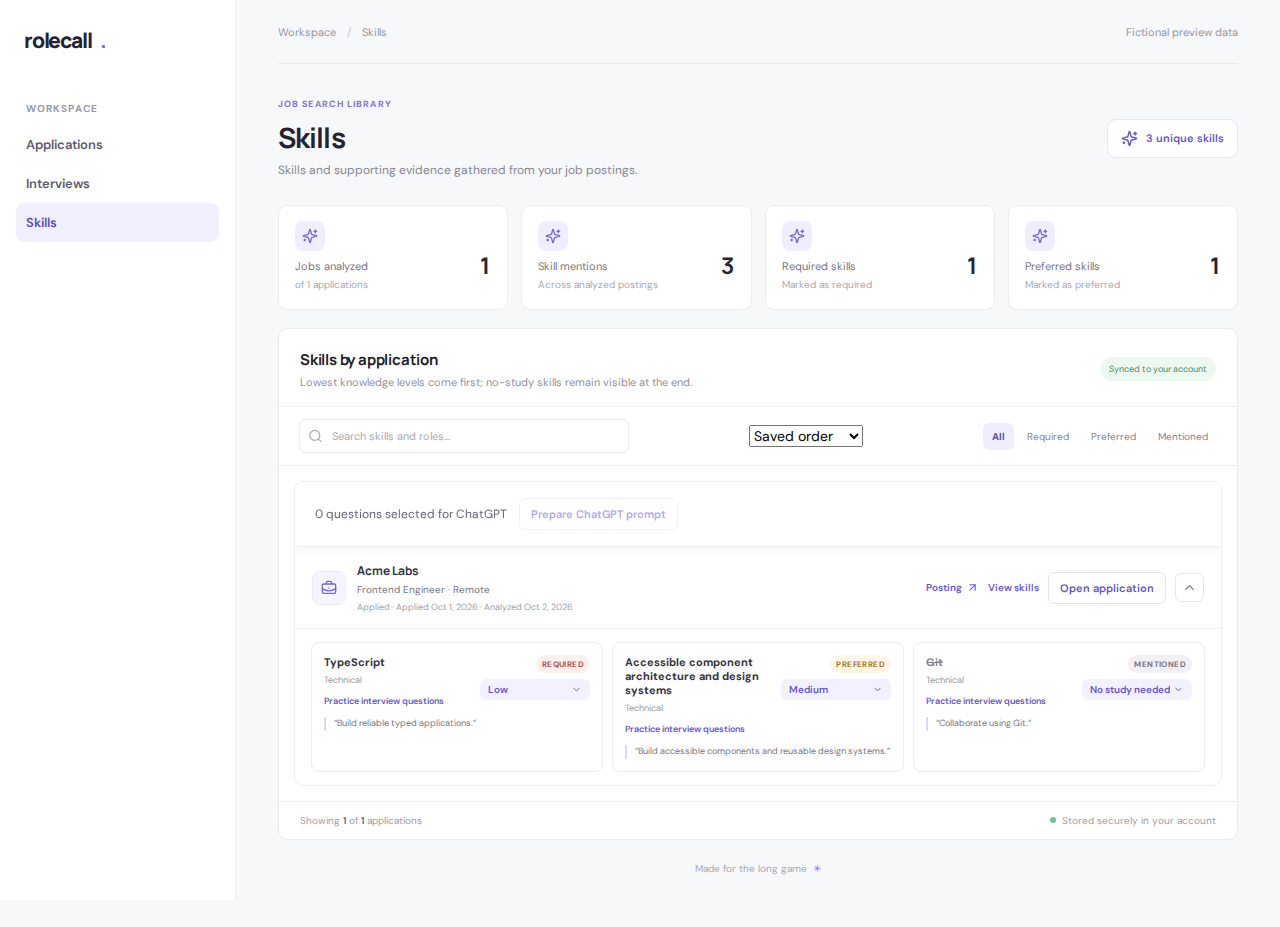
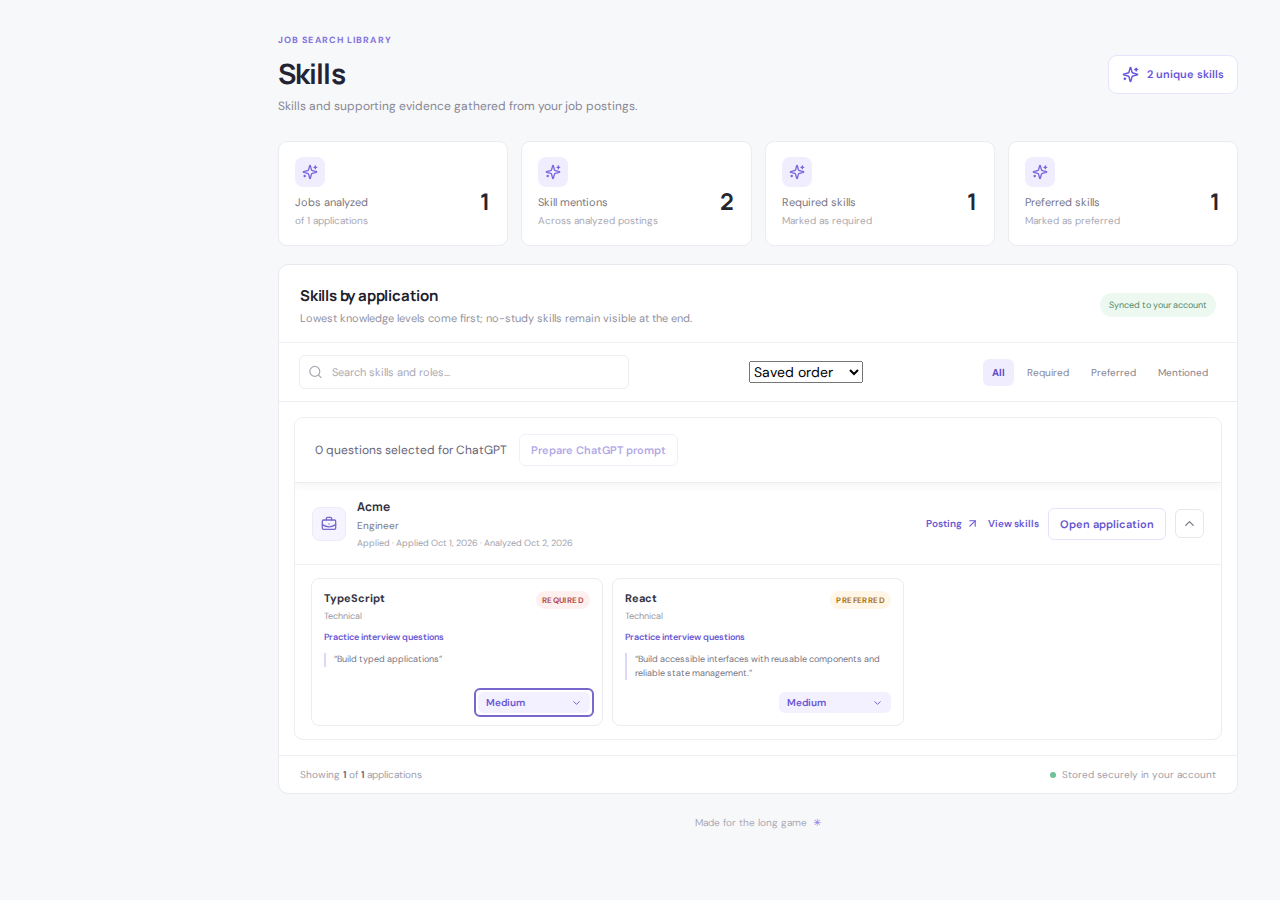
Move knowledge flags to the bottom right (#51)

diff --git a/src/features/skills/pages/SkillsPage.tsx b/src/features/skills/pages/SkillsPage.tsx
@@ -150,7 +150,7 @@ export default function SkillsPage({ applications, loading, now = Date.now(), on
                     const questionsId = `skill-questions-${application.id}-${index}`
                     const questions = skill.interviewQuestions ?? []
                     const needsNoStudy = getSkillPriority(skill) === NO_STUDY_PRIORITY
-                    return <article className={`analyzed-skill${needsNoStudy ? ' analyzed-skill-no-study' : ''}`} key={`${skill.name}-${skill.evidence}`}>
+                    return <article className={`analyzed-skill application-skill-card${needsNoStudy ? ' analyzed-skill-no-study' : ''}`} key={`${skill.name}-${skill.evidence}`}>
                       <div className="application-skill-heading">
                         <button
                           type="button"
@@ -165,23 +165,6 @@ export default function SkillsPage({ applications, loading, now = Date.now(), on
                         </button>
                         <div className="application-skill-flags">
                           <span className={`importance importance-${skill.importance}`}>{skill.importance}</span>
-                          <label className="company-skill-knowledge-level" title="Change the knowledge level for this application skill.">
-                            <span className="sr-only">Knowledge level:</span>
-                            <select
-                              className="company-skill-knowledge-select"
-                              aria-label={`Knowledge level for ${skill.name}`}
-                              value={getComfortRating(skill)}
-                              disabled={savingApplications.has(application.id)}
-                              onChange={(event) => {
-                                if (isComfortRating(event.target.value)) {
-                                  void updateKnowledge(application.id, skill.name, event.target.value)
-                                }
-                              }}
-                            >
-                              {comfortRatings.map((rating) => <option key={rating.value} value={rating.value}>{rating.label}</option>)}
-                            </select>
-                            <ChevronDown size={11} aria-hidden="true" />
-                          </label>
                         </div>
                       </div>
                       <blockquote>“{skill.evidence}”</blockquote>
@@ -191,6 +174,25 @@ export default function SkillsPage({ applications, loading, now = Date.now(), on
                           ? <ol>{questions.map((question, questionIndex) => <li key={`${questionIndex}-${question}`}><PracticeQuestionChoice question={applicationPracticeQuestion(skill, questionIndex)} /></li>)}</ol>
                           : <p>Interview questions are not available for this saved analysis yet. Open the application to generate them.</p>}
                       </div>}
+                      <div className="application-skill-knowledge">
+                        <label className="company-skill-knowledge-level" title="Change the knowledge level for this application skill.">
+                          <span className="sr-only">Knowledge level:</span>
+                          <select
+                            className="company-skill-knowledge-select"
+                            aria-label={`Knowledge level for ${skill.name}`}
+                            value={getComfortRating(skill)}
+                            disabled={savingApplications.has(application.id)}
+                            onChange={(event) => {
+                              if (isComfortRating(event.target.value)) {
+                                void updateKnowledge(application.id, skill.name, event.target.value)
+                              }
+                            }}
+                          >
+                            {comfortRatings.map((rating) => <option key={rating.value} value={rating.value}>{rating.label}</option>)}
+                          </select>
+                          <ChevronDown size={11} aria-hidden="true" />
+                        </label>
+                      </div>
                     </article>
                   })}</div> : <div className="no-skills-found">{application.skills?.length ? `No ${importance.toLowerCase()} skills in this posting.` : 'No specific skills were found in the saved job posting.'}</div>}
                   {application.jobDescription && <details className="saved-job-description"><summary>View fetched job description</summary><pre>{application.jobDescription}</pre></details>}

diff --git a/src/test/components/SkillsPage.knowledge-flags.test.tsx b/src/test/components/SkillsPage.knowledge-flags.test.tsx
@@ -8,13 +8,13 @@ const application: Application = { id: 'one', company: 'Acme', role: 'Engineer',
 const defaults = { loading: false, onOpenApplication: vi.fn(), onOpenCompany: vi.fn(), onOpenApplicationSkills: vi.fn(), applicationFilterId: null, onClearApplicationFilter: vi.fn() }
 
 describe('application knowledge flags', () => {
-  it('places a separately labeled selector beside each practice button for every importance level', () => {
+  it('places a separately labeled selector in each skill card for every importance level', () => {
     render(<SkillsPage {...defaults} applications={[{ ...application, skills: [skill, { ...skill, name: 'React', importance: 'preferred', comfortRating: 'high' }, { ...skill, name: 'Git', importance: 'mentioned', comfortRating: undefined, needsNoStudy: true }] }]} onUpdateSkillComfortRating={vi.fn()} />)
     for (const name of ['TypeScript', 'React', 'Git']) {
       const select = screen.getByRole('combobox', { name: `Knowledge level for ${name}` })
       const card = select.closest('article')!
       expect(select.closest('button')).toBeNull()
-      expect(within(select.parentElement!.parentElement!).getByText(name === 'TypeScript' ? 'required' : name === 'React' ? 'preferred' : 'mentioned')).toBeTruthy()
+      expect(within(card).getByText(name === 'TypeScript' ? 'required' : name === 'React' ? 'preferred' : 'mentioned')).toBeTruthy()
       expect(within(select).getAllByRole('option').map((option) => option.textContent)).toEqual(['Low', 'Medium', 'High', 'No study needed'])
       fireEvent.click(select)
       expect(within(card).getByRole('button').getAttribute('aria-expanded')).toBe('false')

diff --git a/src/features/skills/pages/applicationSkillFlags.css b/src/features/skills/pages/applicationSkillFlags.css
@@ -19,11 +19,40 @@
   flex-shrink: 0;
 }
 
-.application-skill-flags .company-skill-knowledge-level {
+.application-skill-knowledge .company-skill-knowledge-level {
+  position: relative;
   max-width: 100%;
+  padding: 0;
 }
 
-.application-skill-flags .company-skill-knowledge-select:disabled {
+.application-skill-knowledge .company-skill-knowledge-select:disabled {
   cursor: wait;
   opacity: .6;
+}
+
+.application-skill-card {
+  display: flex;
+  flex-direction: column;
+}
+
+.application-skill-knowledge {
+  align-self: flex-end;
+  max-width: 100%;
+  margin-top: auto;
+  padding-top: 12px;
+}
+
+.application-skill-knowledge .company-skill-knowledge-select {
+  display: block;
+  width: 100%;
+  padding: 5px 24px 5px 8px;
+  border-radius: inherit;
+}
+
+.application-skill-knowledge .company-skill-knowledge-level svg {
+  position: absolute;
+  right: 8px;
+  top: 50%;
+  transform: translateY(-50%);
+  pointer-events: none;
 }

diff --git a/docs/screenshots/knowledge-flags.md b/docs/screenshots/knowledge-flags.md
@@ -1,4 +1,5 @@
 Issue #51 screenshots render production Skills components with fictional data.
-Knowledge controls sit beneath importance badges and remain separate from practice
-buttons. Chromium checked 1280-, 390-, and 360-pixel widths, keyboard focus, and
-question selection/prompt preparation after rating changes.
+Knowledge controls sit at the bottom right of each card, below evidence and any
+expanded practice questions; importance badges remain at the top right.
+Chromium checked 1280-, 390-, and 360-pixel widths, bottom/right alignment,
+expanded questions, no horizontal overflow, and native arrow-click selection.
